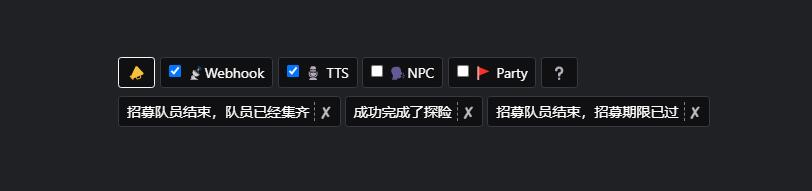
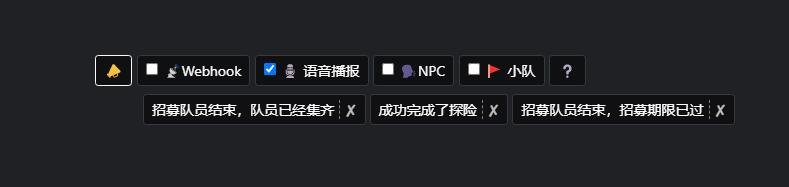
add margin left to keywords label

diff --git a/ffxivkeyword.html b/ffxivkeyword.html
@@ -56,14 +56,14 @@
                             <code class="chinese text-light bg-opacity-dark">/e 关键字 [任意词] · /e webhook [地址] [参数名]</code>
                             <code class="english text-light bg-opacity-dark">/e keyword [word] · /e webhook [url] [key]</code>
                         </span>
-                        <div id="webhook-info" class="hidden mt-1">
+                        <div id="webhook-info" class="hidden mt-1 ml-5">
                             📡<code class="text-light bg-opacity-dark"></code>
                         </div>
                     </span>
                 </div><!--.col-->
             </div><!--.row-->
             <div class="row hidable">
-                <div class="col p-1">
+                <div class="col p-1 ml-5">
                     <span id="keyword-div" class="bg-transparent"></span>
                 </div><!--.col-->
             </div><!--.row-->
